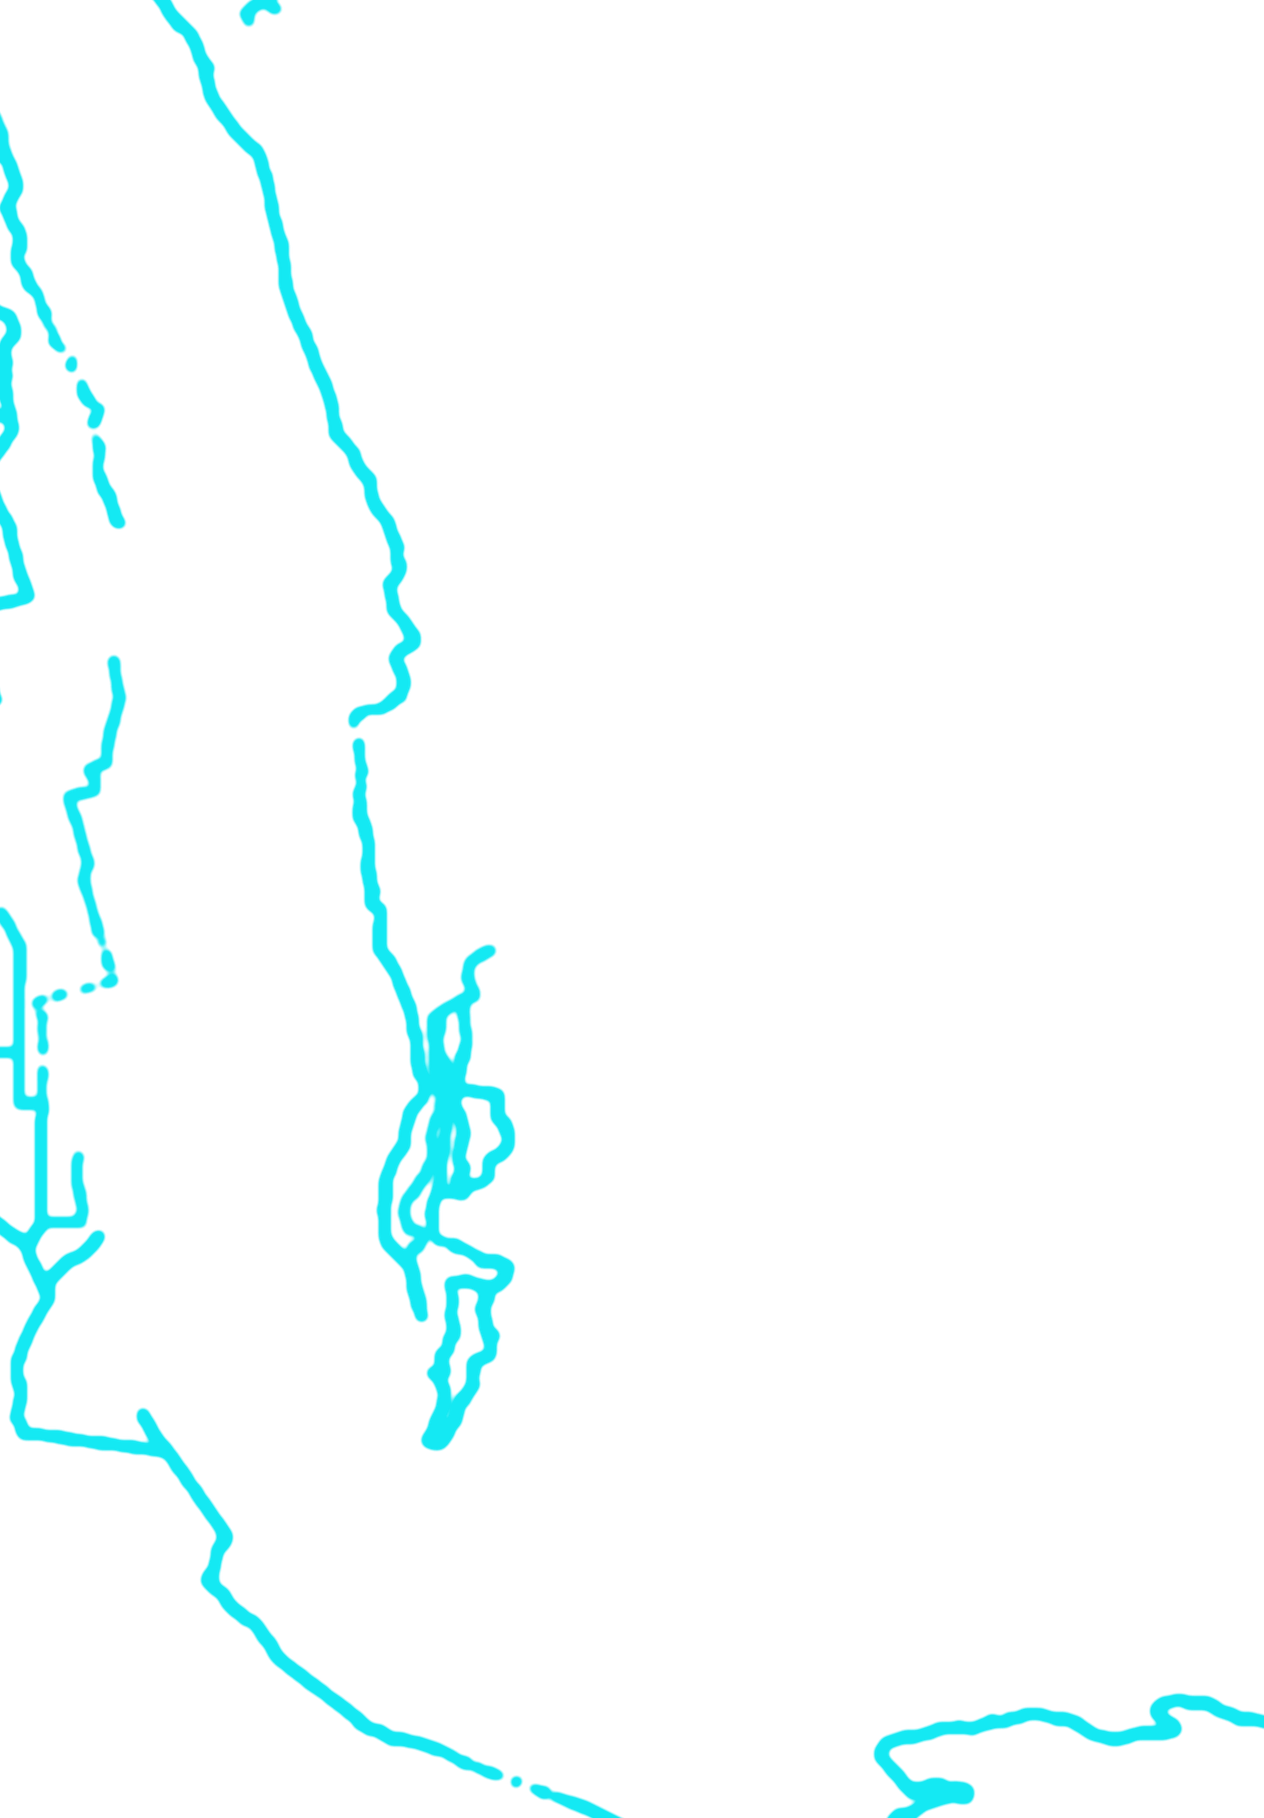
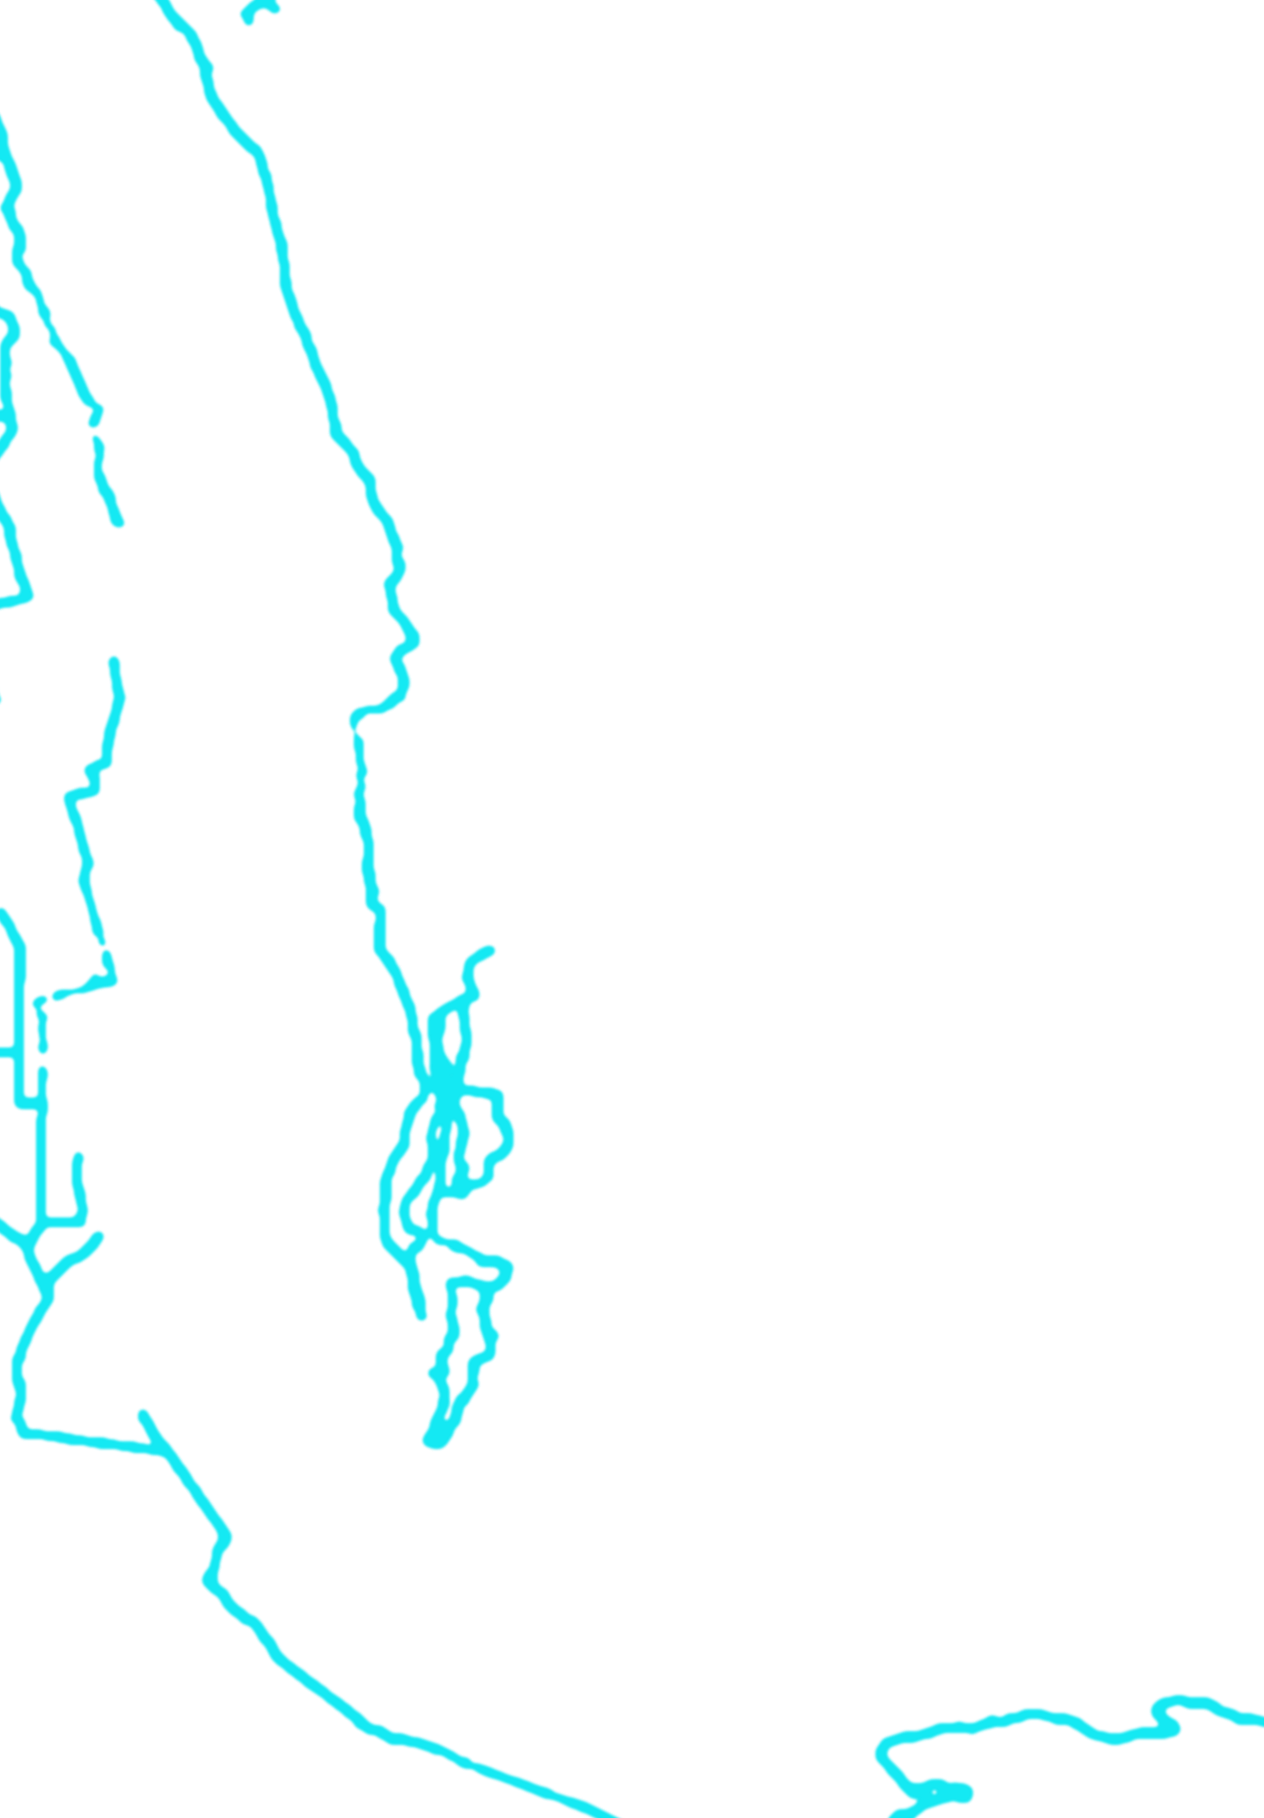
v23.6 山城四修：衛星無圖資灰塊/漏雲/補丁色差(局部低頻貼合)；移除五鎮定位白點(manifest旗標根除)；主題模式地名開關；廟宇深紅環；水圳T8更細平滑+方向性搭橋不中斷（大茅埔同步裁切）

diff --git a/index.html b/index.html
@@ -1168,7 +1168,7 @@ var CFG = {
   id: "damaopu",
   title: "大茅埔 3D 互動地圖",
   subtitle: "老地名・水圳・社區記憶",
-  textureVersion: "?v=1",  /* v23.5：水圳改用山城清版裁切（去毛邊去斷裂）；改貼圖時遞增 */
+  textureVersion: "?v=2",  /* v23.6：水圳改用山城 T8 版裁切（更細更平滑、方向性搭橋不中斷） */
 
   scene: { bg: 0x0e1420, fog: [45, 130], fov: 50, near: 0.1, far: 500 },
   lights: {
@@ -1623,7 +1623,8 @@ if(typeof MARKERS!=='undefined'){
   MARKERS.forEach(function(m){
     var town=m[0],lat=m[2],lon=m[3];
     addLabel(town,lon,lat,CFG.labels.markers.fs,CFG.labels.markers.fill,CFG.labels.markers.hh,CFG.labels.markers.off,CFG.labels.markers.tier);
-    addGroundMarker(lon,lat);
+    /* 鄉鎮定位點由 manifest groundMarker.show 控制（山城已停用——使用者要求移除，勿再開） */
+    if(!(CFG.groundMarker&&CFG.groundMarker.show===false)) addGroundMarker(lon,lat);
     SKIP[town]=1; SKIP[town+'區']=1; SKIP[town+'鎮']=1;
   });
   VECT.places.forEach(function(p){
@@ -1687,19 +1688,20 @@ if(typeof PEAKS!=='undefined'){
 /* POI theme point layers (shancheng: 廟宇/農會/資材行) */
 var poiItems=[], gTemple=null, gNonghui=null, gSupply=null;
 if(typeof POI_TEMPLE!=='undefined'&&CFG.poi){
-  function makePoiDisc(hex,rad){
+  function makePoiDisc(hex,rad,ringHex){
+    /* ringHex 可依 POI 類別自訂外環色（預設白）；小點的白環會蓋過主色，如廟宇需配深色同系環 */
     var g=new THREE.Group();
-    var rC=new THREE.MeshBasicMaterial({color:0xffffff,depthTest:false,transparent:true,opacity:0.95}); rC.color.convertSRGBToLinear();
+    var rC=new THREE.MeshBasicMaterial({color:(ringHex!=null?ringHex:0xffffff),depthTest:false,transparent:true,opacity:0.95}); rC.color.convertSRGBToLinear();
     var dC=new THREE.MeshBasicMaterial({color:hex,depthTest:false}); dC.color.convertSRGBToLinear();
     var ring=new THREE.Mesh(new THREE.CircleGeometry(rad*1.4,26),rC); ring.rotation.x=-Math.PI/2; ring.renderOrder=1006; ring.position.y=0.002;
     var dot=new THREE.Mesh(new THREE.CircleGeometry(rad,26),dC); dot.rotation.x=-Math.PI/2; dot.renderOrder=1007; dot.position.y=0.004;
     g.add(ring); g.add(dot); return g;
   }
-  function buildPoi(list,hex,rad,labeled,labD,cell){
+  function buildPoi(list,hex,rad,labeled,labD,cell,ringHex){
     var grp=new THREE.Group(); scene.add(grp); grp.visible=false;
     var occ={};
     list.forEach(function(p){ var x=lonToX(p.lon),z=latToZ(p.lat); if(!inside(x,z))return;
-      var d=makePoiDisc(hex,rad); grp.add(d);
+      var d=makePoiDisc(hex,rad,ringHex); grp.add(d);
       var lab=null;
       if(labeled&&p.n){ var ok=true;
         if(cell){ var ck=Math.floor(x/cell)+'_'+Math.floor(z/cell); if(occ[ck])ok=false; else occ[ck]=1; }
@@ -1708,9 +1710,9 @@ if(typeof POI_TEMPLE!=='undefined'&&CFG.poi){
     });
     return grp;
   }
-  gTemple=buildPoi(POI_TEMPLE,CFG.poi.temple.color,CFG.poi.temple.rad,CFG.poi.temple.labeled);
-  if(typeof POI_NONGHUI!=='undefined') gNonghui=buildPoi(POI_NONGHUI,CFG.poi.nonghui.color,CFG.poi.nonghui.rad,CFG.poi.nonghui.labeled,CFG.poi.nonghui.labD);
-  if(typeof POI_SUPPLY!=='undefined') gSupply=buildPoi(POI_SUPPLY,CFG.poi.supply.color,CFG.poi.supply.rad,CFG.poi.supply.labeled,CFG.poi.supply.labD,CFG.poi.supply.cell);
+  gTemple=buildPoi(POI_TEMPLE,CFG.poi.temple.color,CFG.poi.temple.rad,CFG.poi.temple.labeled,undefined,undefined,CFG.poi.temple.ring);
+  if(typeof POI_NONGHUI!=='undefined') gNonghui=buildPoi(POI_NONGHUI,CFG.poi.nonghui.color,CFG.poi.nonghui.rad,CFG.poi.nonghui.labeled,CFG.poi.nonghui.labD,undefined,CFG.poi.nonghui.ring);
+  if(typeof POI_SUPPLY!=='undefined') gSupply=buildPoi(POI_SUPPLY,CFG.poi.supply.color,CFG.poi.supply.rad,CFG.poi.supply.labeled,CFG.poi.supply.labD,CFG.poi.supply.cell,CFG.poi.supply.ring);
 }
 /* ===== My Maps story layer (damaopu) ===== */
 var gMy=null, myGrp={}, myLabels=[], myItems=[], myClouds=[];
@@ -1953,6 +1955,7 @@ var _ckRoad=document.getElementById('ck_road'); if(_ckRoad) _ckRoad.addEventList
 var _ckWat=document.getElementById('ck_wat'); if(_ckWat) _ckWat.addEventListener('change',function(e){ gWater.visible=e.target.checked; });
 var _ckPeak=document.getElementById('ck_peak'); if(_ckPeak) _ckPeak.addEventListener('change',function(e){ if(gPeaks) gPeaks.visible=(mode==='cont')&&e.target.checked; });
 var _ckSlab=document.getElementById('ck_slab'); if(_ckSlab) _ckSlab.addEventListener('change',function(e){ if(mode==='sat') gLabels.visible=e.target.checked; });
+var _ckTlab=document.getElementById('ck_tlab'); if(_ckTlab) _ckTlab.addEventListener('change',function(e){ if(mode==='theme') gLabels.visible=e.target.checked; });
 var _ckHlab=document.getElementById('ck_hlab'); if(_ckHlab) _ckHlab.addEventListener('change',function(e){ if(mode==='hist') gLabels.visible=e.target.checked; });  /* v23修9 */
 if(HAS_STORY){
   var _stOrder2=CFG.story.order||Object.keys(CFG.story.groups);
@@ -2022,7 +2025,7 @@ function setMode(m){ mode=m;
     var l=$id('ck_lab'); gLabels.visible=l?l.checked:true;
   } else if(m==='theme'){
     gWater.visible=true; gRoads.visible=false;
-    gLabels.visible=true;
+    var tl=$id('ck_tlab'); gLabels.visible=tl?tl.checked:true;
   } else if(m==='sat'){
     var sl=$id('ck_slab'); gLabels.visible=sl?sl.checked:false;
   } else {